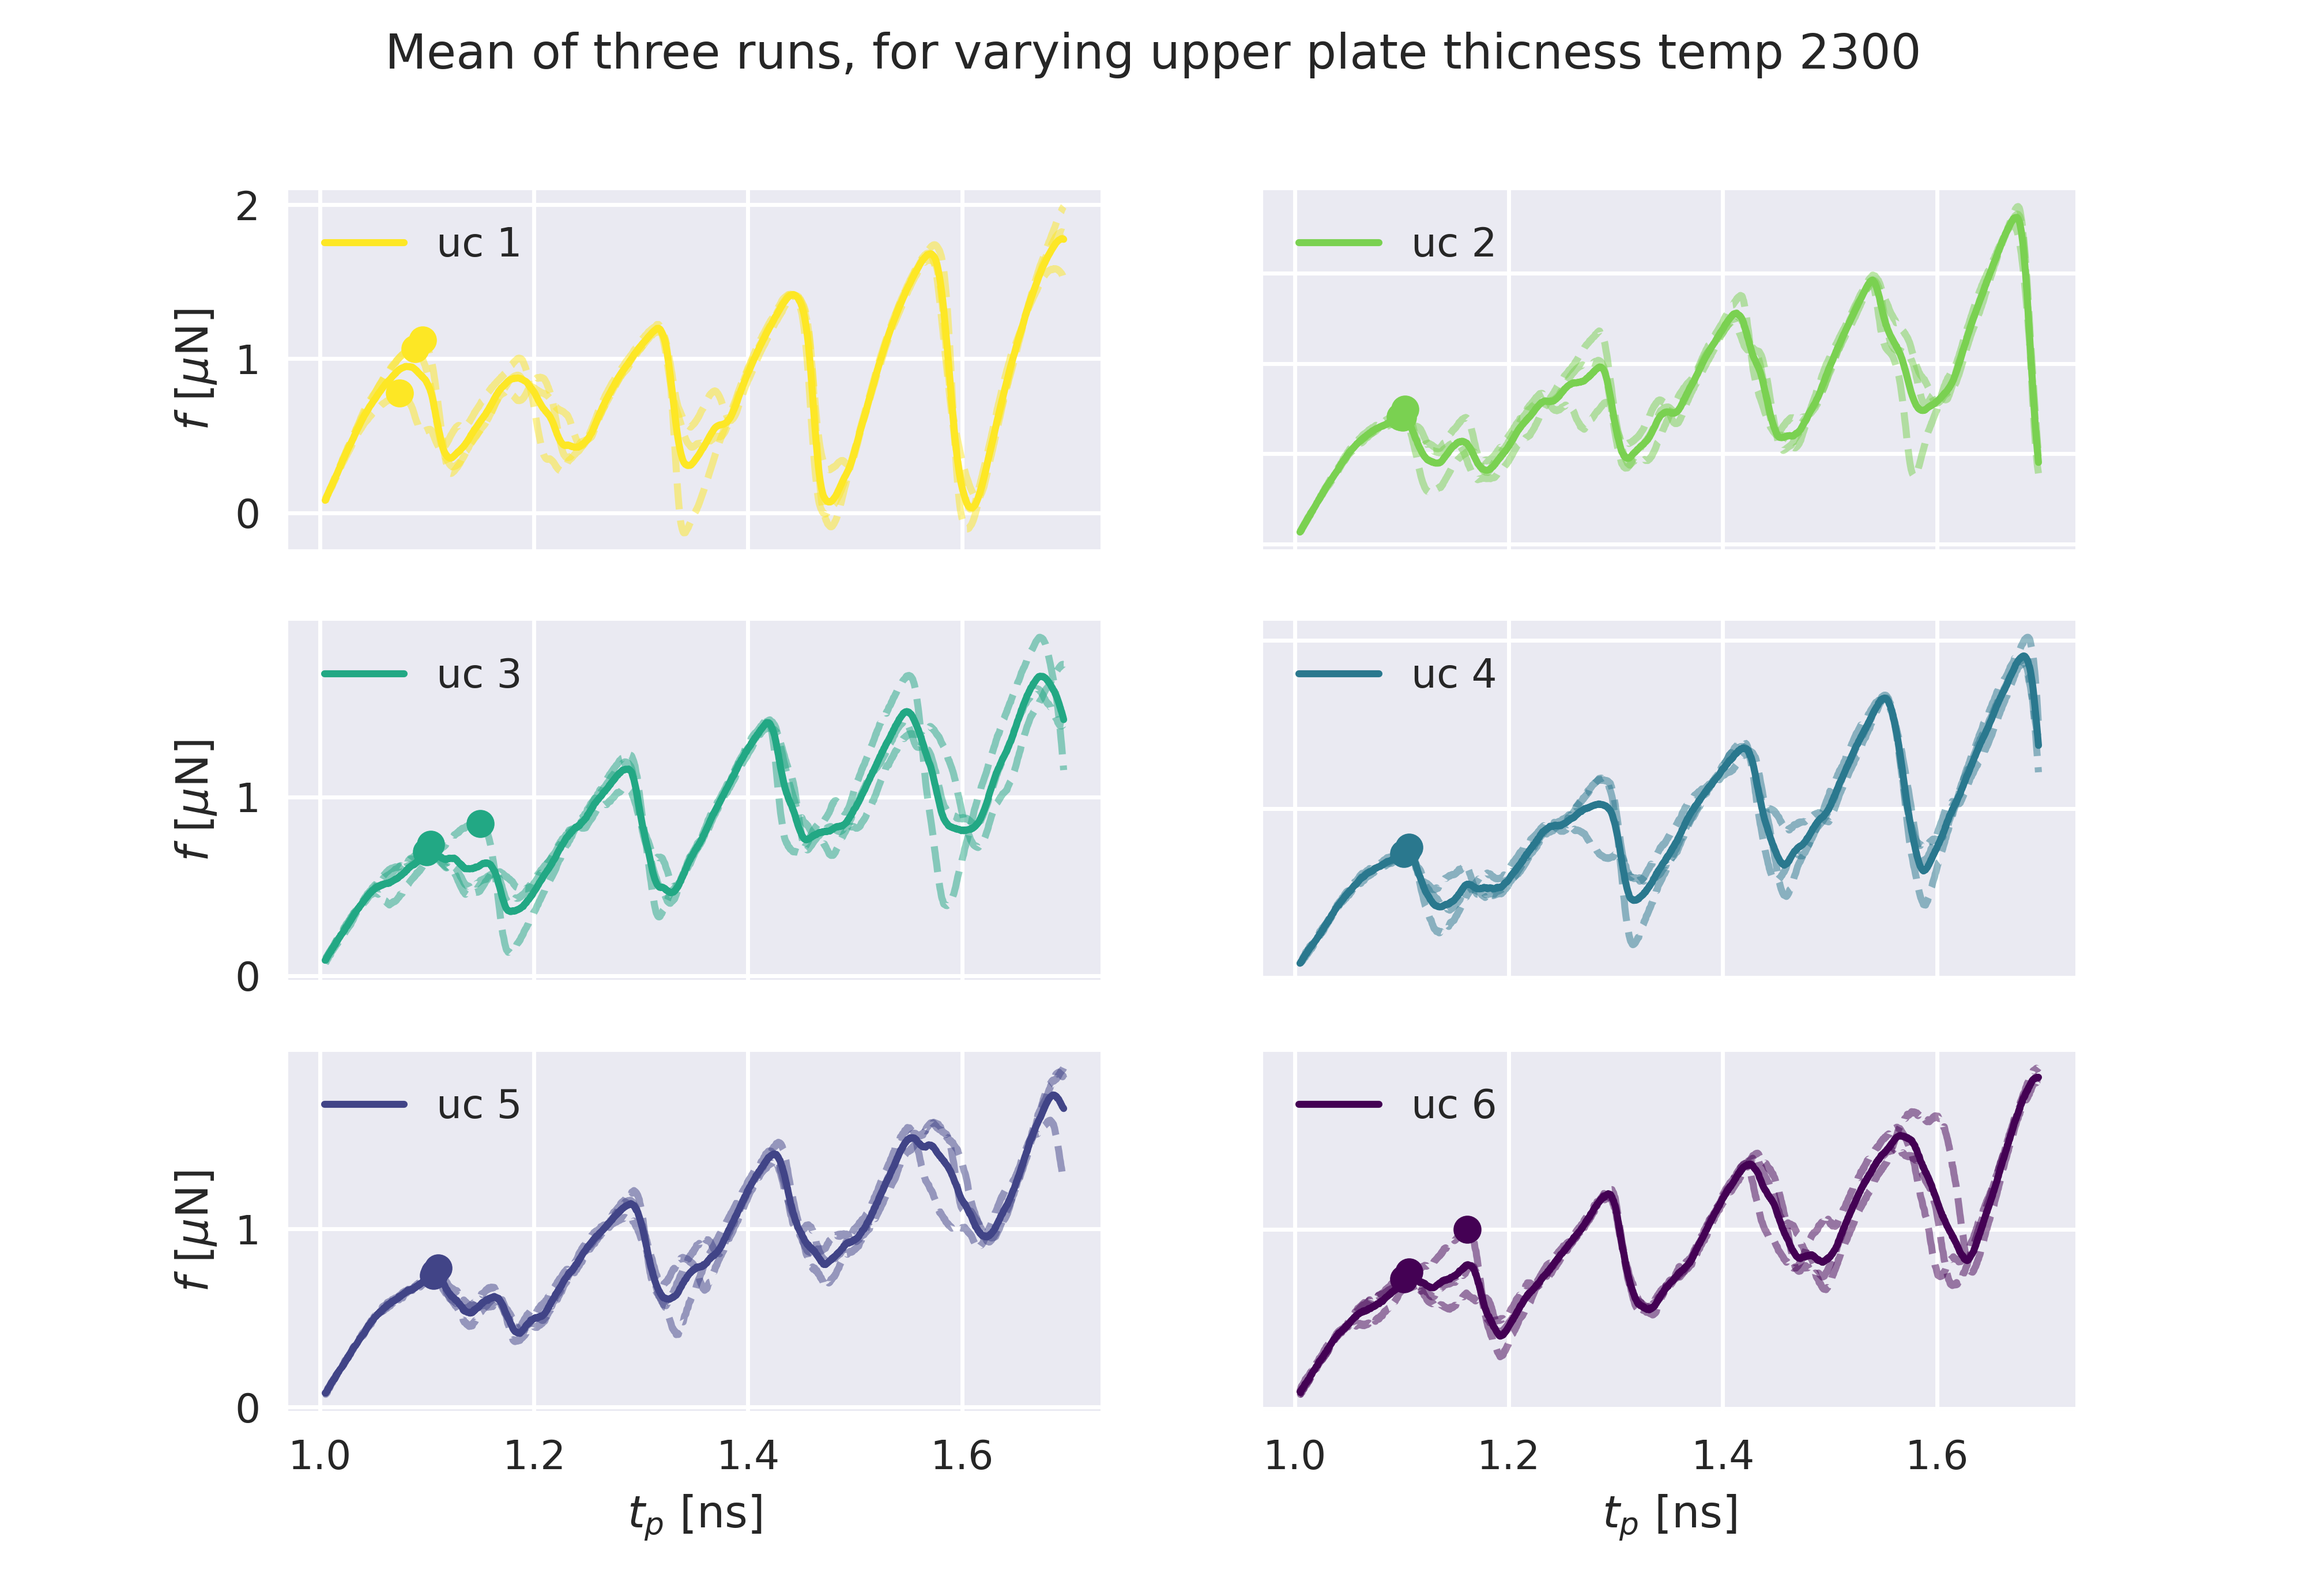
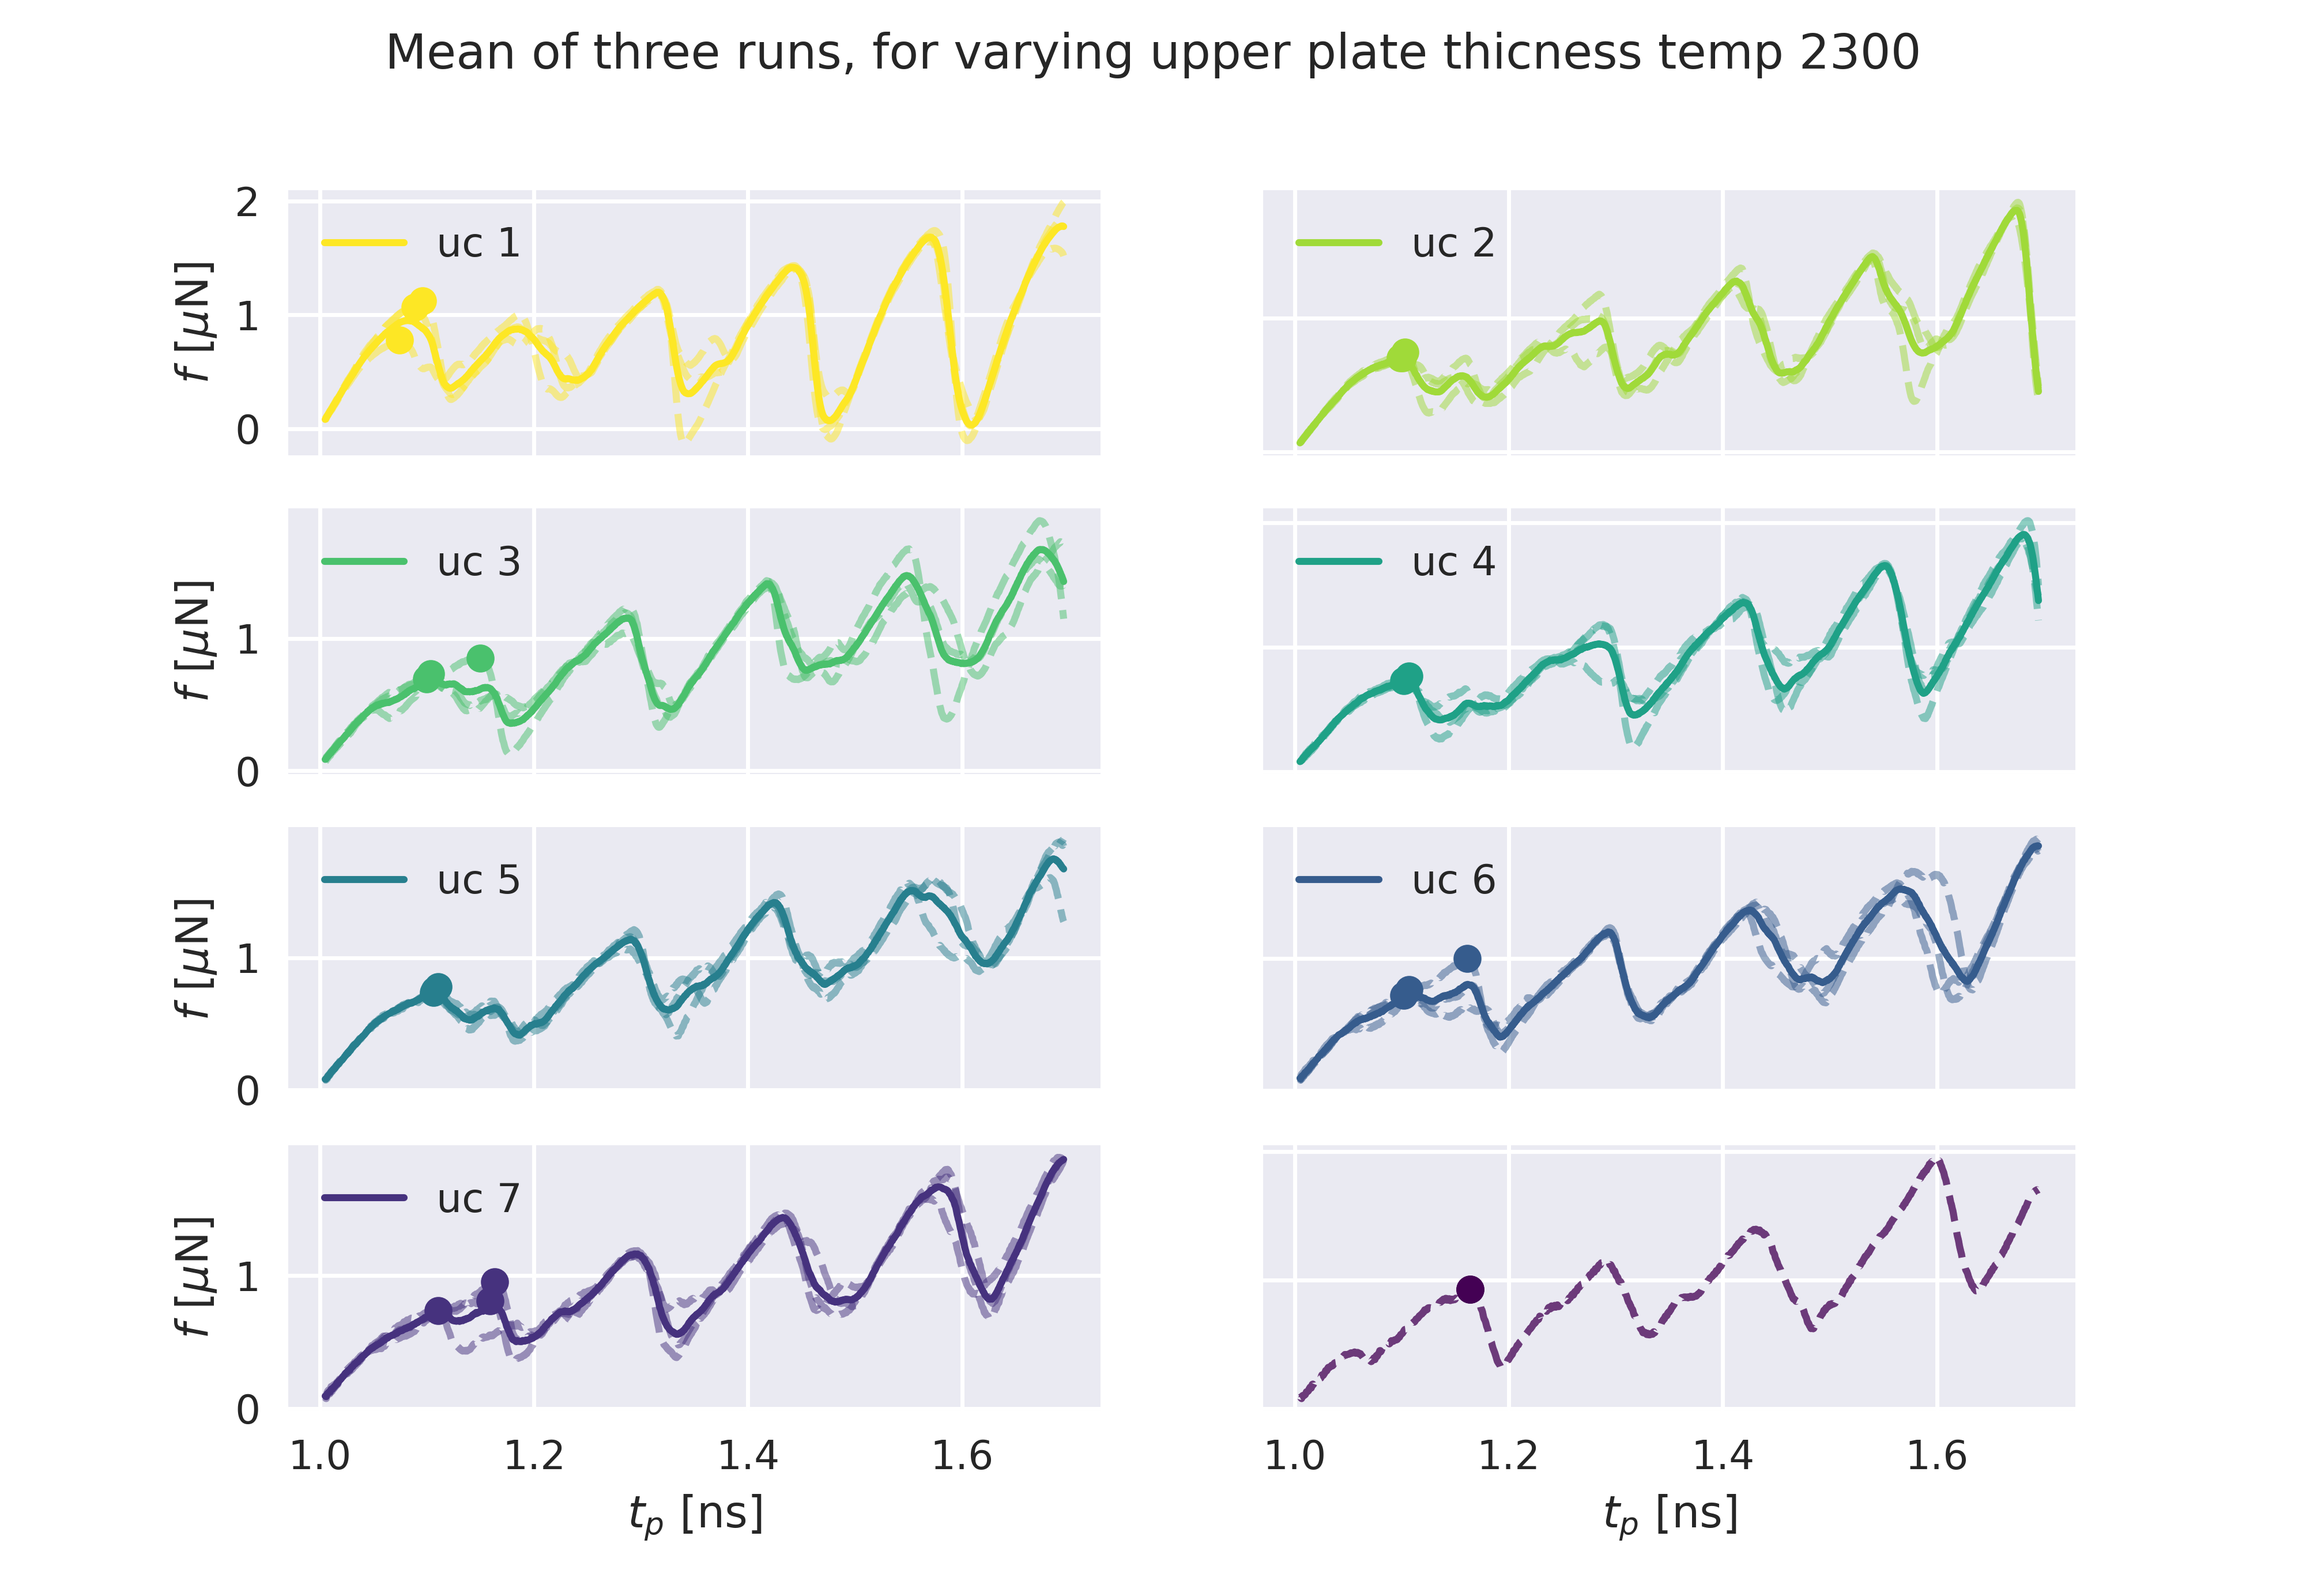
plot

diff --git a/python/plot/plot_load_curves.py b/python/plot/plot_load_curves.py
@@ -100,7 +100,7 @@ def plot_load_curves_as_funciton_of_top_thiccness():
                  5: [22125,97481,26403],
                  6: [84340,13006,94745],
                  7: [94340,52540,92005],
-                 8: [11394]}
+                 8: [11394, 11394]}
 
 
 #    seed_dict = {1: [36015,37461,77220], 2: [49156,64486,73803],
@@ -115,9 +115,9 @@ def plot_load_curves_as_funciton_of_top_thiccness():
     template_ms = max_static_dir + 'max_static_temp{}_vel{}_force{}_or{}_seed*_errgrid{}_{}_chess.txt'
     style.use('seaborn') 
     min_hup = 1
-    max_hup = 6
+    max_hup = 8
 
-    fig, axs = plt.subplots(3,2)
+    fig, axs = plt.subplots(4,2)
     fig2 = plt.figure()
     axs2 = fig2.add_subplot(111)
 
@@ -133,8 +133,9 @@ def plot_load_curves_as_funciton_of_top_thiccness():
         ms_all, ms_mean = load_max_static(temp, vel, force, orientation, grid,
                                  template_lc, template_ms, seeds)
         c = plt.cm.viridis((max_hup - uc)/(max_hup - min_hup + 0.01))
-        axs[j].plot(load_curves[0,:,0], load_curves[0,:,1], c=c, label = f'uc {uc}' )
-        axs2.plot(ms_mean[0], ms_mean[1],'*', label = f'uc {uc}', c=c)
+        if len(seeds) > 2:
+            axs[j].plot(load_curves[0,:,0], load_curves[0,:,1], c=c, label = f'uc {uc}' )
+            axs2.plot(ms_mean[0], ms_mean[1],'*', label = f'uc {uc}', c=c)
         print(np.shape(ms_all))
         for l in range(len(seeds)):
             print('l :',l)
@@ -285,8 +286,8 @@ if __name__ == '__main__':
 
     #plot_all_curves_and_mean(temp, vel, force, orientation, grid, template_lc, template_ms, seeds)    
     #plot_mean_of_multiple(temp, vel, force, orientation, grid, template_lc, template_ms, [seeds1, seeds2, seeds3])
-    #plot_load_curves_as_funciton_of_top_thiccness()
-    load_vs_normal_force()
+    plot_load_curves_as_funciton_of_top_thiccness()
+    #load_vs_normal_force()
     """
     stop
 
